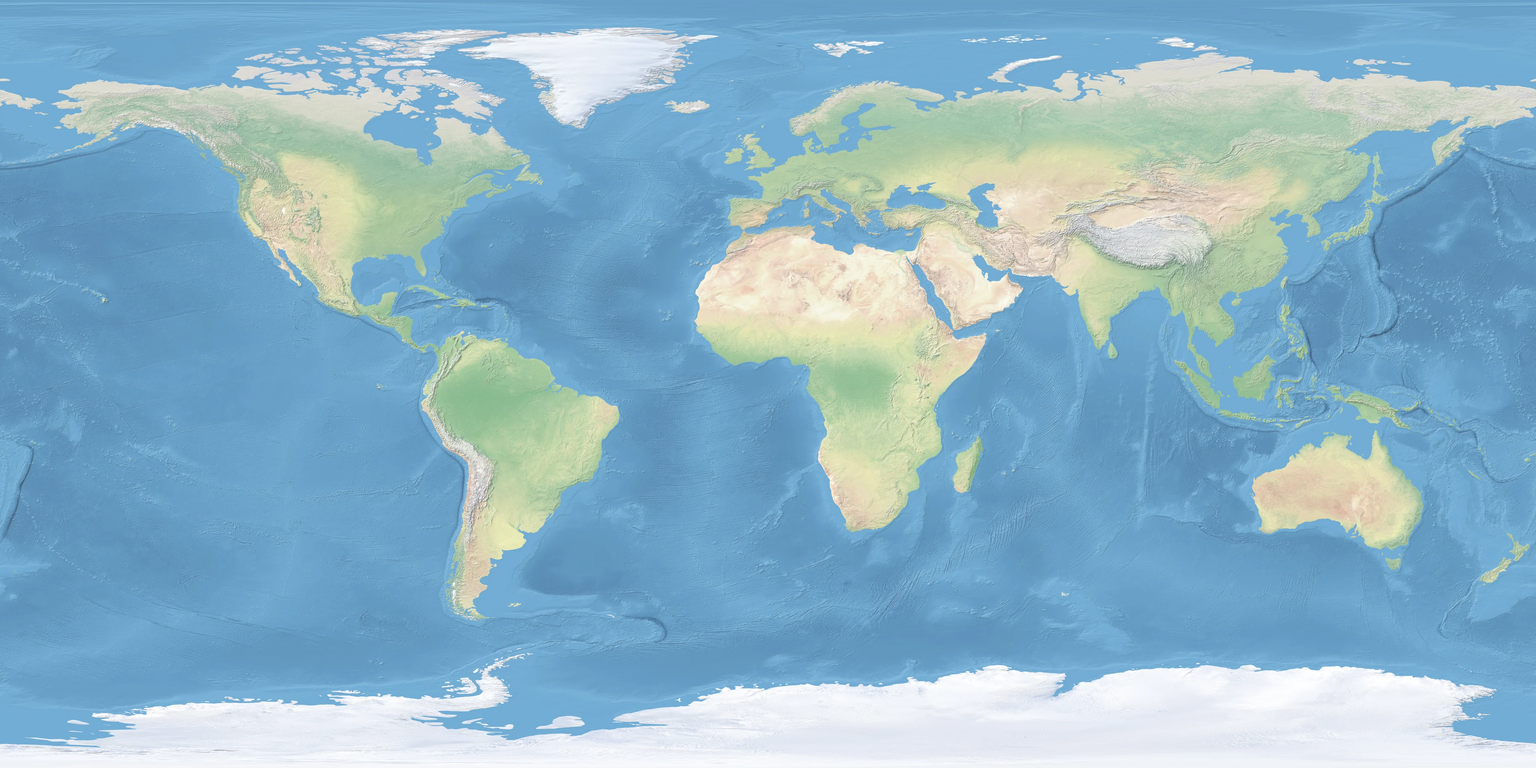
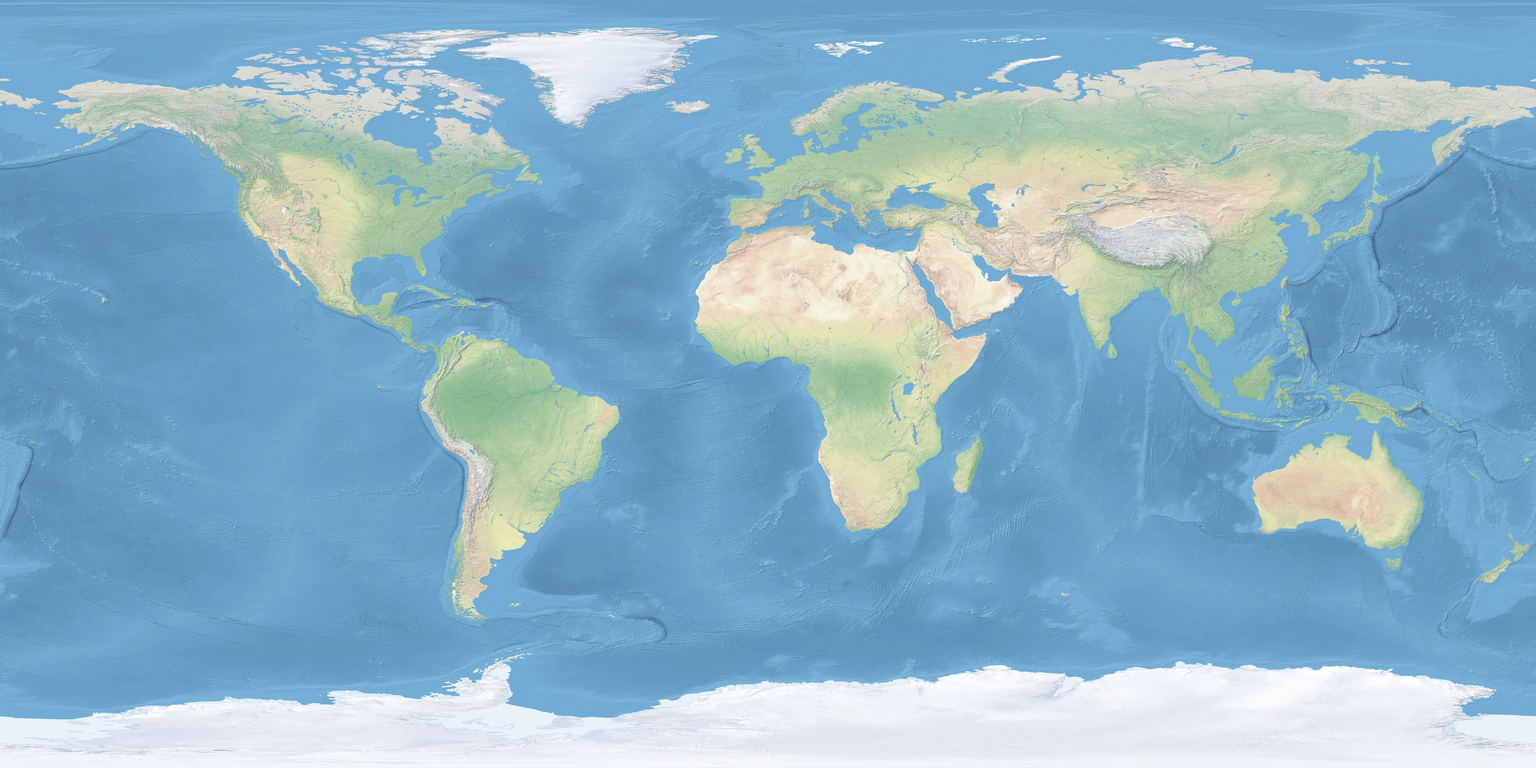
Use complete Natural Earth globe texture

diff --git a/app/thenthere/Globe.tsx b/app/thenthere/Globe.tsx
@@ -5,43 +5,6 @@ import * as THREE from "three";
 import { OrbitControls } from "three/examples/jsm/controls/OrbitControls.js";
 
 export type GlobePoint = { lat: number; lon: number };
-const GREAT_LAKES: GlobePoint[][] = [
-  // Simplified shorelines retain the five lakes at the globe's viewing scale.
-  [
-    { lat: 46.35, lon: -92.1 }, { lat: 47.1, lon: -91.0 },
-    { lat: 47.85, lon: -89.7 }, { lat: 48.0, lon: -88.1 },
-    { lat: 47.7, lon: -86.6 }, { lat: 47.05, lon: -86.15 },
-    { lat: 46.48, lon: -87.0 }, { lat: 46.28, lon: -88.5 },
-    { lat: 46.42, lon: -90.15 }, { lat: 46.1, lon: -91.5 },
-  ],
-  [
-    { lat: 45.85, lon: -88.95 }, { lat: 46.2, lon: -88.15 },
-    { lat: 45.8, lon: -87.25 }, { lat: 44.8, lon: -86.8 },
-    { lat: 43.5, lon: -86.62 }, { lat: 42.28, lon: -86.92 },
-    { lat: 41.72, lon: -87.52 }, { lat: 42.0, lon: -88.18 },
-    { lat: 43.3, lon: -88.45 }, { lat: 44.65, lon: -88.7 },
-  ],
-  [
-    { lat: 45.9, lon: -84.95 }, { lat: 46.3, lon: -84.1 },
-    { lat: 45.95, lon: -83.0 }, { lat: 45.15, lon: -82.65 },
-    { lat: 44.3, lon: -82.75 }, { lat: 43.55, lon: -82.35 },
-    { lat: 43.18, lon: -82.58 }, { lat: 43.65, lon: -83.25 },
-    { lat: 44.45, lon: -83.75 }, { lat: 45.05, lon: -84.8 },
-  ],
-  [
-    { lat: 42.15, lon: -83.18 }, { lat: 42.55, lon: -82.5 },
-    { lat: 42.48, lon: -81.4 }, { lat: 42.3, lon: -80.25 },
-    { lat: 42.15, lon: -79.15 }, { lat: 41.8, lon: -79.1 },
-    { lat: 41.5, lon: -80.0 }, { lat: 41.45, lon: -81.45 },
-    { lat: 41.55, lon: -82.65 },
-  ],
-  [
-    { lat: 43.92, lon: -79.15 }, { lat: 44.22, lon: -78.2 },
-    { lat: 44.3, lon: -77.2 }, { lat: 44.05, lon: -76.65 },
-    { lat: 43.65, lon: -76.7 }, { lat: 43.45, lon: -77.45 },
-    { lat: 43.5, lon: -78.45 },
-  ],
-];
 const toVector = (p: GlobePoint, r = 1.018) => {
   const phi = ((p.lon + 180) * Math.PI) / 180,
     theta = ((90 - p.lat) * Math.PI) / 180;
@@ -99,25 +62,6 @@ export default function Globe({
       new THREE.MeshStandardMaterial({ map: texture, roughness: 0.88 }),
     );
     scene.add(globe);
-    const lakes = new THREE.Group();
-    for (const shoreline of GREAT_LAKES) {
-      const center = shoreline.reduce(
-        (sum, point) => sum.add(toVector(point, 1.003)),
-        new THREE.Vector3(),
-      ).normalize().multiplyScalar(1.003);
-      const vertices = [center, ...shoreline.map((point) => toVector(point, 1.003))];
-      const indices: number[] = [];
-      for (let i = 1; i <= shoreline.length; i++) {
-        indices.push(0, i, i === shoreline.length ? 1 : i + 1);
-      }
-      const geometry = new THREE.BufferGeometry().setFromPoints(vertices);
-      geometry.setIndex(indices);
-      lakes.add(new THREE.Mesh(
-        geometry,
-        new THREE.MeshBasicMaterial({ color: 0x3b78a5, transparent: true, opacity: 0.9, side: THREE.DoubleSide }),
-      ));
-    }
-    scene.add(lakes);
     scene.add(new THREE.HemisphereLight(0xd9efff, 0x071021, 2.1));
     const sun = new THREE.DirectionalLight(0xffffff, 2.6);
     sun.position.set(-3, 3, 4);
@@ -214,11 +158,6 @@ export default function Globe({
       texture.dispose();
       globe.geometry.dispose();
       (globe.material as THREE.Material).dispose();
-      lakes.traverse((object) => {
-        if (!(object instanceof THREE.Mesh)) return;
-        object.geometry.dispose();
-        (object.material as THREE.Material).dispose();
-      });
       [
         markers.current.guess,
         markers.current.answer,
